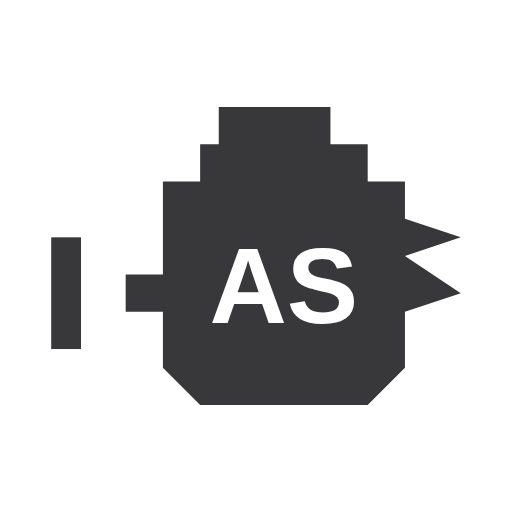
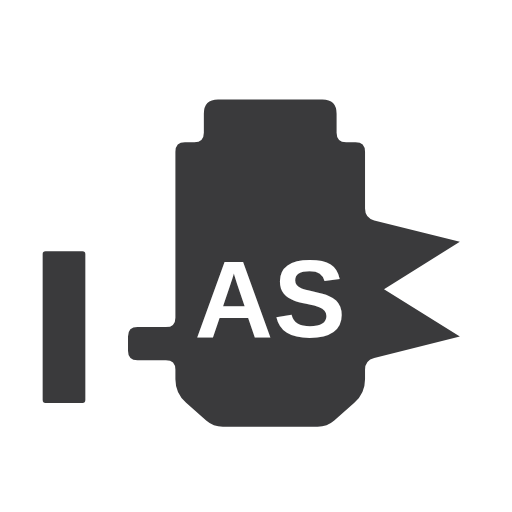
Logoyu referans görsele daha yakın şekilde yeniden çiz
Yuvarlatılmış köşeler ve daha doğru oranlarla check-engine + AS
ikonu yeniden oluşturuldu, önceki sürüme göre orijinal görsele çok
daha yakın.

Claude-Session: https://claude.ai/code/session_01RzpjxC2mFyk7XVWRNYdunE

diff --git a/sw.js b/sw.js
@@ -1,4 +1,4 @@
-const CACHE_ADI = "atolyepro-v8";
+const CACHE_ADI = "atolyepro-v9";
 const TEMEL_DOSYALAR = ["./", "./index.html", "./app.js", "./manifest.json", "./icons/icon-192.png", "./icons/icon-512.png"];
 
 self.addEventListener("install", (e) => {
